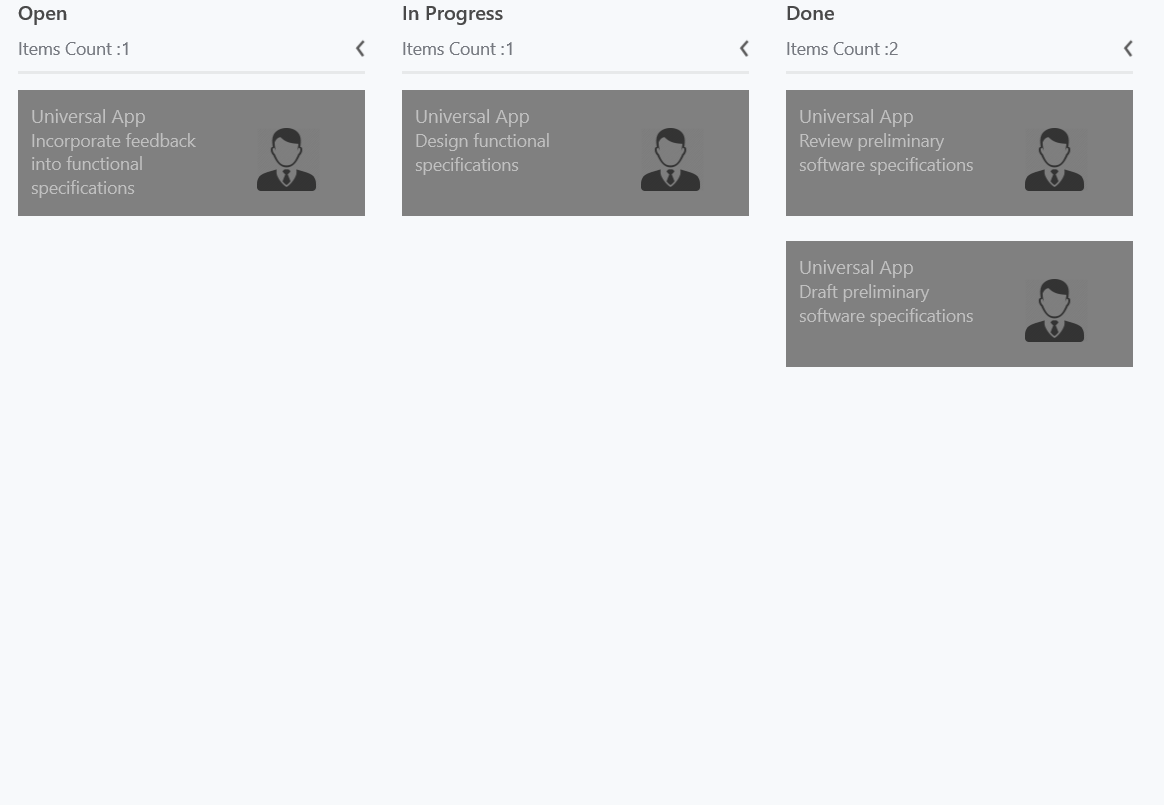
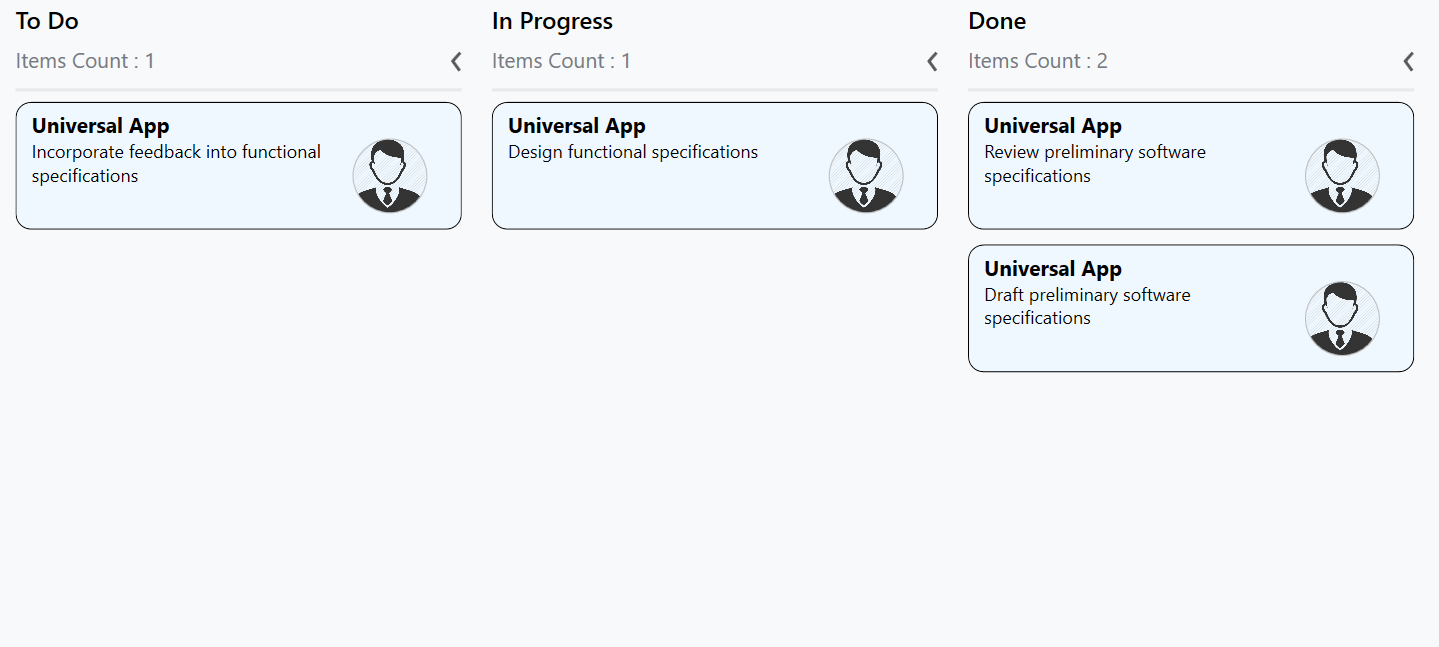
Description and CardTemplate changed for SfKanban

Changed region(s): [[0.0, 0.0, 0.9897, 0.5564], [0.3402, 0.34, 0.3711, 0.3709]]

diff --git a/uwp-toc.html b/uwp-toc.html
@@ -476,9 +476,13 @@
     </li>
     <li>
         SfKanban
-        <ul>
-            <li><a href="/uwp/SfKanban/Overview">Overview</a></li>
-            <li><a href="/uwp/SfKanban/Getting-Started">Getting Started</a></li>
+          <ul>
+            <li><a href="/wpf/sfkanban/overview">Overview</a></li>
+            <li><a href="/wpf/sfkanban/getting-started">Getting Started</a></li>
+            <li><a href="/wpf/sfkanban/cards">Kanban Cards</a></li>
+            <li><a href="/wpf/sfkanban/events">Kanban Events</a></li>
+            <li><a href="/wpf/sfkanban/placeholderstyle">Placeholderstyle</a></li>
+            <li><a href="/wpf/sfkanban/workflows">Workflows</a></li>
         </ul>
     </li>
     <li>

diff --git a/uwp/SfKanban/Workflows.md b/uwp/SfKanban/Workflows.md
@@ -1,7 +1,7 @@
 ---
 layout: post
 title: Workflows | SfKanban | uwp | Syncfusion
-description: workflows
+description: The following section describes how to define the workflows to the Kanban.
 platform: uwp
 control: SfKanban
 documentation: ug
@@ -52,15 +52,23 @@ A Kanban workflow is a set of Category and AllowedTransitions that an item mo
 WorkflowCollection workflows = new WorkflowCollection();
 
 workflows.Add(new KanbanWorkflow()
+
 {
+
     Category = "Open",
+
     AllowedTransitions = new List<object>() {"In Progress"}
+
 });
 
 workflows.Add(new KanbanWorkflow()
+
 {
+
     Category = "In Progress",
+
     AllowedTransitions = new List<object>() {"Review", "Done"}
+
 });
 
 Kanban.Workflows = workflows;

diff --git a/uwp/SfKanban/Cards.md b/uwp/SfKanban/Cards.md
@@ -1,7 +1,7 @@
 ---
 layout: post
 title: Kanban Cards | SfKanban | uwp | Syncfusion
-description: Kanban Cards
+description: This section describes how the card can be customized using CardTemplate. It contains how to set the IndicatorColorPalette to Kanban.
 platform: uwp
 control: SfKanban
 documentation: ug

diff --git a/uwp/SfKanban/Placeholderstyle.md b/uwp/SfKanban/Placeholderstyle.md
@@ -1,7 +1,7 @@
 ---
 layout: post
 title:  Placeholder style | SfKanban | uwp | Syncfusion
-description: placeholder style
+description: The following section describes how to customize the place holders of Kanban card while drgging.
 platform: uwp
 control: SfKanban
 documentation: ug

diff --git a/uwp/SfKanban/Events.md b/uwp/SfKanban/Events.md
@@ -1,7 +1,7 @@
 ---
 layout: post
 title:  Kanban Events | SfKanban | uwp | Syncfusion
-description: kanban events
+description: This section contains the detailed information about the kanban dragging and column generated events.
 platform: uwp
 control: SfKanban
 documentation: ug
